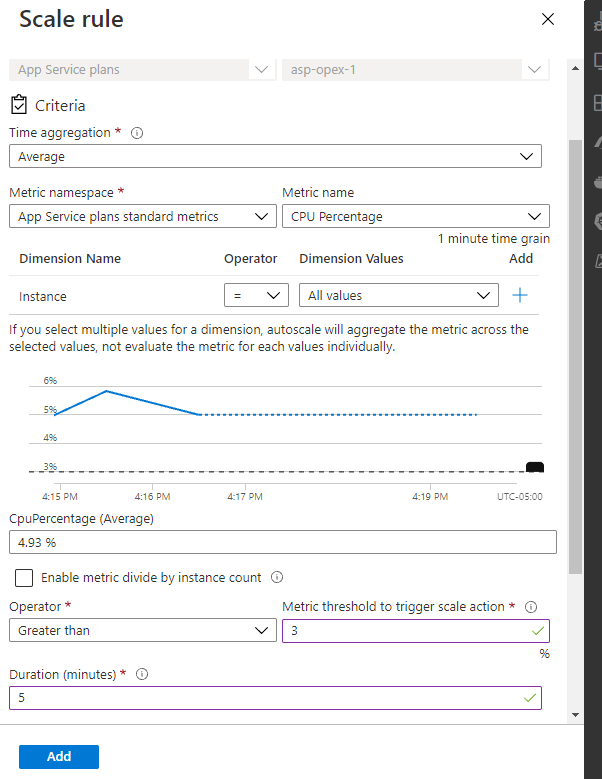
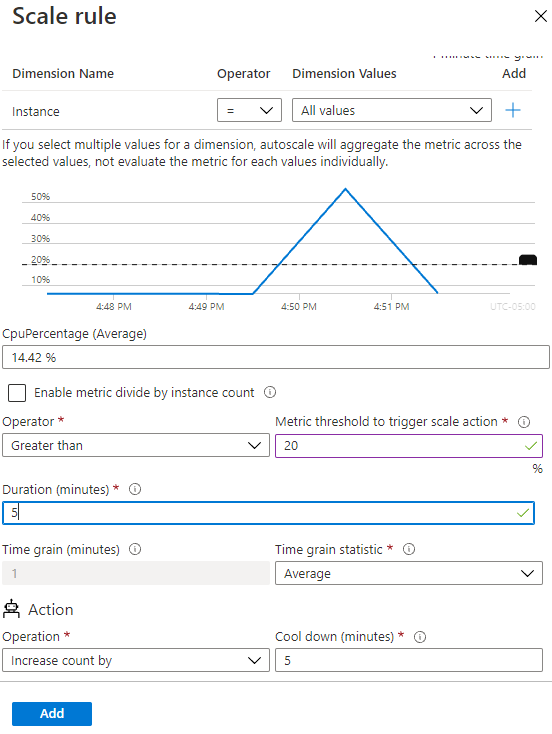
added scale in

diff --git a/README.md b/README.md
@@ -241,7 +241,7 @@ The goal of this activity to give you some hands on experience with one of the p
 
 1. Set the following Values
    1. Scale mode: Scale based on a metric
-   2. Rules: + Add Rule
+   2. Rules: + Add Rule - This will be the scale out rule
 
       ![image](./media/9a.png)
 
@@ -253,7 +253,7 @@ The goal of this activity to give you some hands on experience with one of the p
       * Operator: =
       * Dimension Values: All Values
       * Operator: Greater than
-      *  Metric threshold to trigger scale action: 4  (Set this value below the CpuPercentage in the screen, just to trigger an autoscale. This is just for demonstration purposes, you should carefully evaluate what the actual threshold should be)
+      *  Metric threshold to trigger scale action: 20  (Set this value below the CpuPercentage in the screen, just to trigger an autoscale. This is just for demonstration purposes, you should carefully evaluate what the actual threshold should be)
       * Duration (minutes): 5
       * Time grain (minutes): 1
       * Time grain statistic: Average
@@ -263,15 +263,28 @@ The goal of this activity to give you some hands on experience with one of the p
 
         ![image](./media/10.png)
 
-   1. Instance Limits  Minimum: 1
-   1. Instance Limits  Maximum: 1
-   1. Instance Limits  Default: 1
+    1. Repeat the previous step with one minor change to make the Scale in rule.
+       1. Set the Metric threshold to trigger scale action: 15
+       1. Set the Operation: Decrease count by
+
+            ![image](./media/10a.png)
+
+   3. Now you should have a Scale out and Scale in rule
+
+   4. Instance Limits  Minimum: 1
+   5. Instance Limits  Maximum: 1
+   6. Instance Limits  Default: 1
 
         ![image](./media/11.png)
 
-    1. Click Save
+
+    2. Click Save
 
         ![image](./media/12.png)
+
+    3. After some time, you can click on the 'Run History' in the tool bar of the auto scale setting to see the observed instance count over time to observe when your app service plan scales out and in.
+
+        ![image](./media/12a.png)
 
 ## Query Logs
 [Back to Objectives](#objectives)
